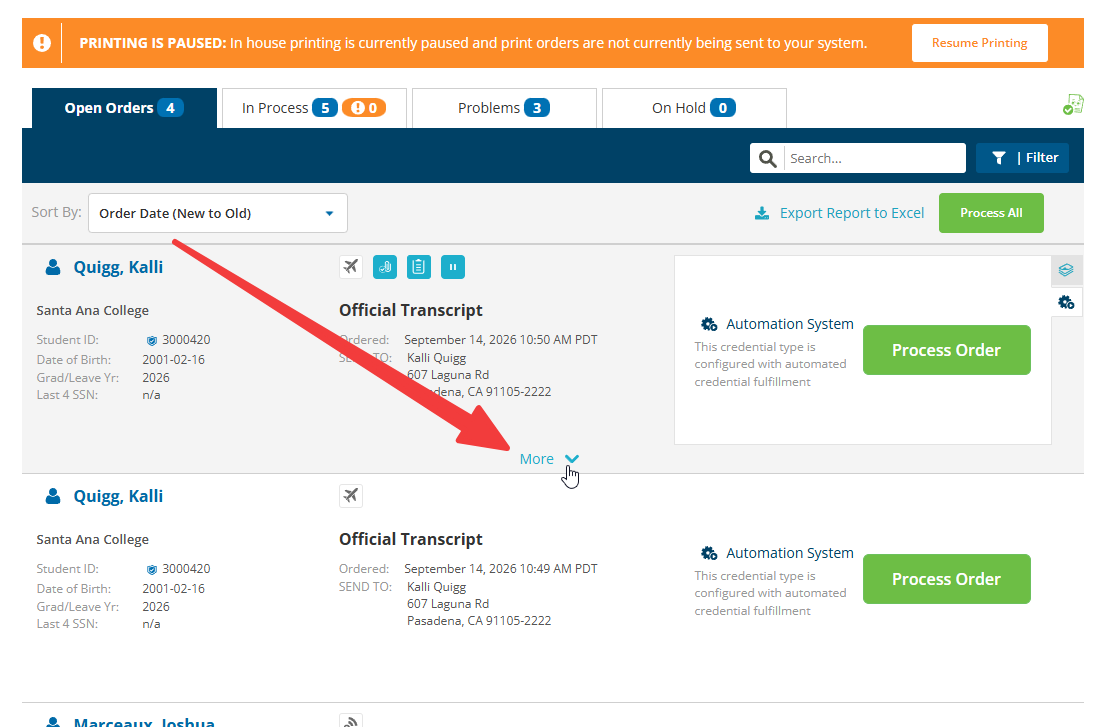
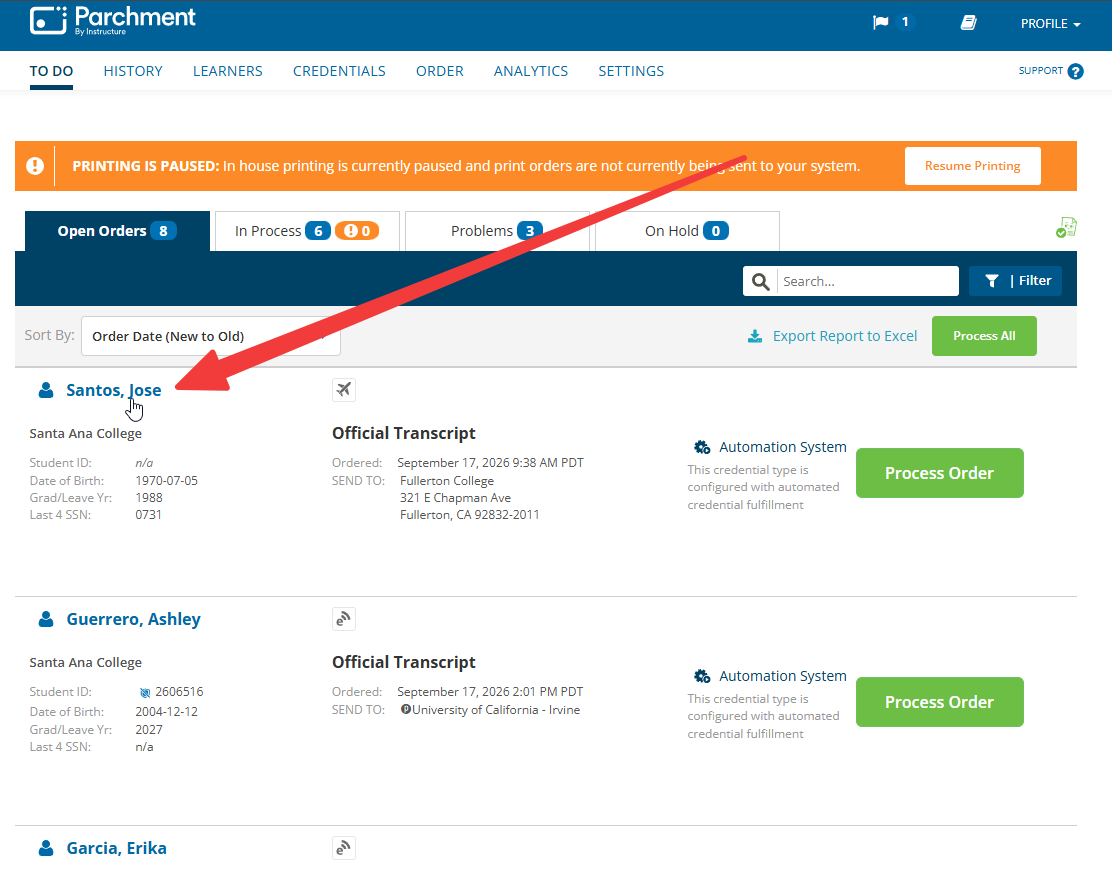
transcripts processing updates

diff --git a/mkdocs/docs/arii/transcripts/parchment-orders.md b/mkdocs/docs/arii/transcripts/parchment-orders.md
@@ -14,15 +14,15 @@
 
 1. **Open Orders** tab should be opened by default. 
 
-2. Hover mouse over each student and click **More**.
+2. Click on **student name** to enter Order Details.
 
-    ![Hover over each student and click More](../../images/parchment-orders-4.png)
+    ![Click on student name to enter order details](../../images/parchment-orders-4.png)
 
-3. Check under **Order Information**.
+3. In **Order Details**.
 
-    - If Order Information states "Yes, I am sending to a UC for transfer purposes."
+    - If Order Details states "Yes, I am sending to a UC for transfer purposes." and student is actually sending to a UC.
 
-        ![Order Information states "Yes, I am sending to a UC for transfer purposes."](../../images/parchment-orders-5.png)
+        ![Order Details states "Yes, I am sending to a UC for transfer purposes."](../../images/parchment-orders-5.png)
         
         - Navigate to **TRAN** on Colleague and run their transcript. Check and see if there is an IGETC Certification posted towards the end of the transcript.
         - If there is, check on Laserfiche for certification.
@@ -40,12 +40,16 @@
 
             ![Drag and drop the certification into the Upload New File area](../../images/parchment-orders-8.png)
 
-        - Click **Save & Close**.
+        - Click **Back To To Do List**.
+
+            ![Click Back To To Do List](../../images/parchment-orders-18.png)
+
         - Navigate back to **Open Orders** main page and click **Process Order** for student.
 
             ![Click Process Order](../../images/parchment-orders-9.png)
 
-    - If Order Information states "No, I am sending elsewhere or ordering for personal use.", then simply click **Process Order** for student.
+    - If Order Details states "Yes, I am sending to a UC for transfer purposes." but student is not actually sending to a UC, then simply click **Process Order** for student.
+    - If Order Details states "No, I am sending elsewhere or ordering for personal use.", then simply click **Process Order** for student.
 
 ### Problems
 
@@ -57,19 +61,22 @@
 
 3. Open **NAE** on Colleague and ensure **Name When Enrolled** matches **NAE** record.
 
-    - If a Social Security Number is provided
+    - **If a Social Security Number is provided**
         - Ensure that the Social Security Number matches the one on record.
         - If the Social Security Number does not match, cancel the order.
             - For Cancel Reason, select "Learner Provided Incorrect Request Information."
             - Enter comments that the SSN does not match what we have on file.
             - Click **Yes, Cancel This Order**.
 
-    - If date of birth is not even close to the one on record, cancel the order. *If it is one number off, and all other information matches, go ahead and process.*
+    - **If date of birth is not even close to the one on record** 
+        - Cancel the order. 
+            - *If it is one number off, and all other information matches, go ahead and process.*
         - For Cancel Reason, select "Learner Provided Incorrect Request Information."
         - Enter comments that the date of birth does not match what we have on file.
         - Click **Yes, Cancel This Order**.
 
-    - If name does not match, click on **Edit** button next to **Name**.
+    - **If name does not match** 
+        - Click on **Edit** button next to **Name**.
 
         ![Click on Edit button next to Name](../../images/parchment-orders-11.png)
 
@@ -79,7 +86,8 @@
         - Click **Resolve**.
         - Click **Process Order**.
 
-    - If we cannot find the student in our records, click **Cancel Order**.
+    - **If we cannot find the student in our records**
+        - Click **Cancel Order**.
         - Select Cancel Reason.
             - For Cancel Reason, select "Learner Record Cannot Be Located."
         - Click **Yes, Cancel This Order**.

diff --git a/mkdocs/docs/arii/transcripts/download-parchment.md b/mkdocs/docs/arii/transcripts/download-parchment.md
@@ -2,7 +2,7 @@
 
 ## Processing Steps
 
-1. Go to the **RECEIVE screen** in Parchment.
+1. Go to the **RECEIVE** screen in Parchment.
 2. Download the transcripts.
 3. Search for the student in Colleague.
 4. **Name each file using this format:**
